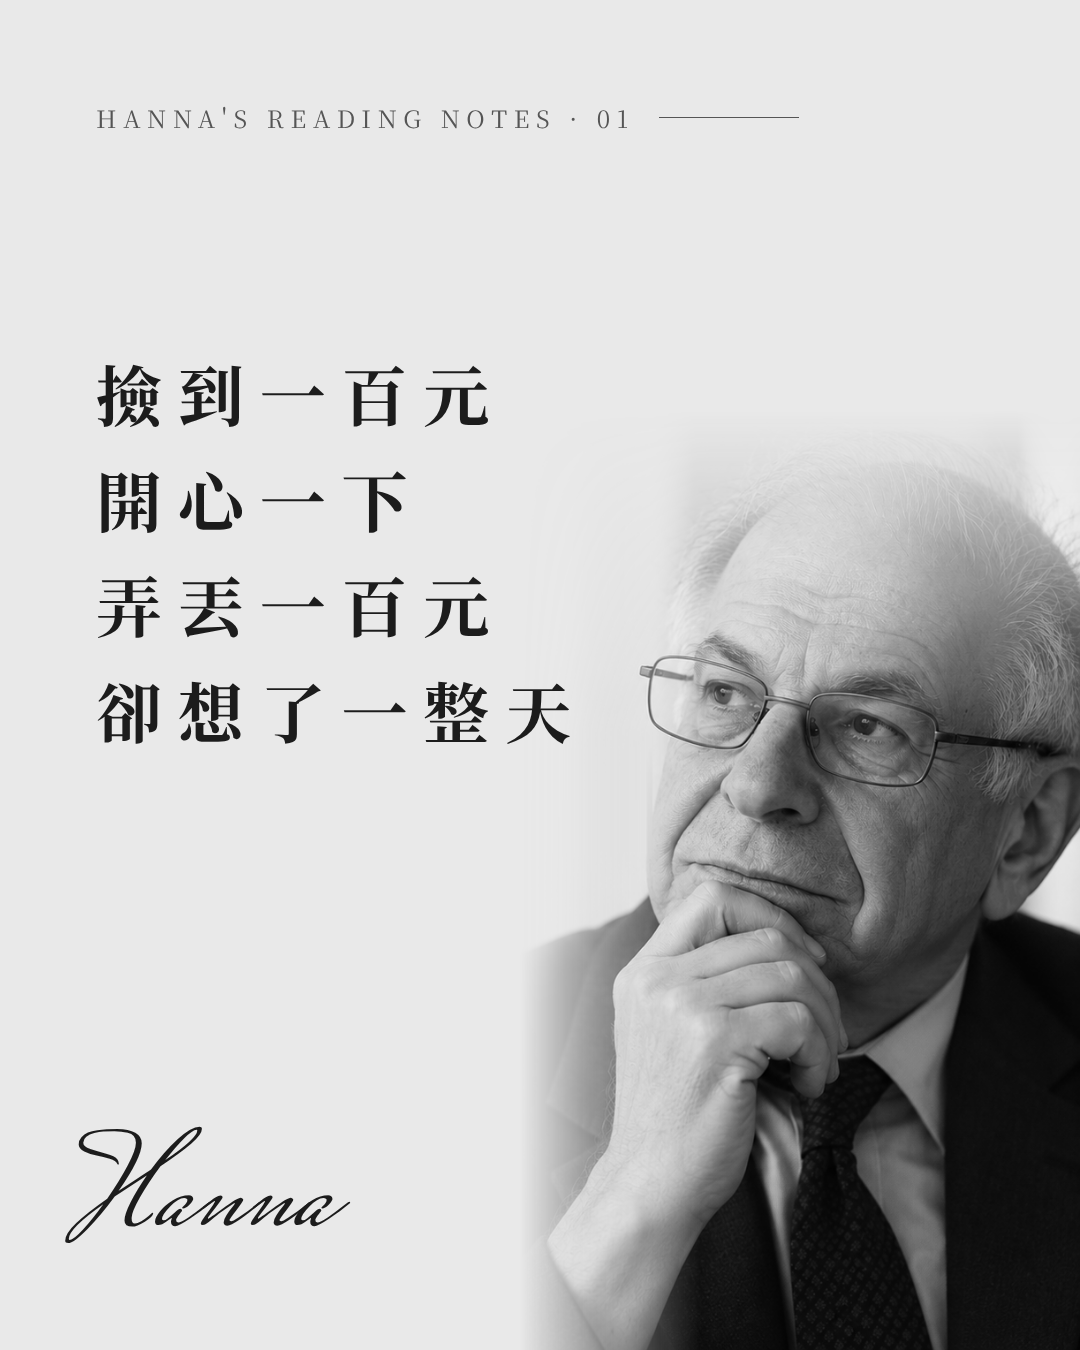
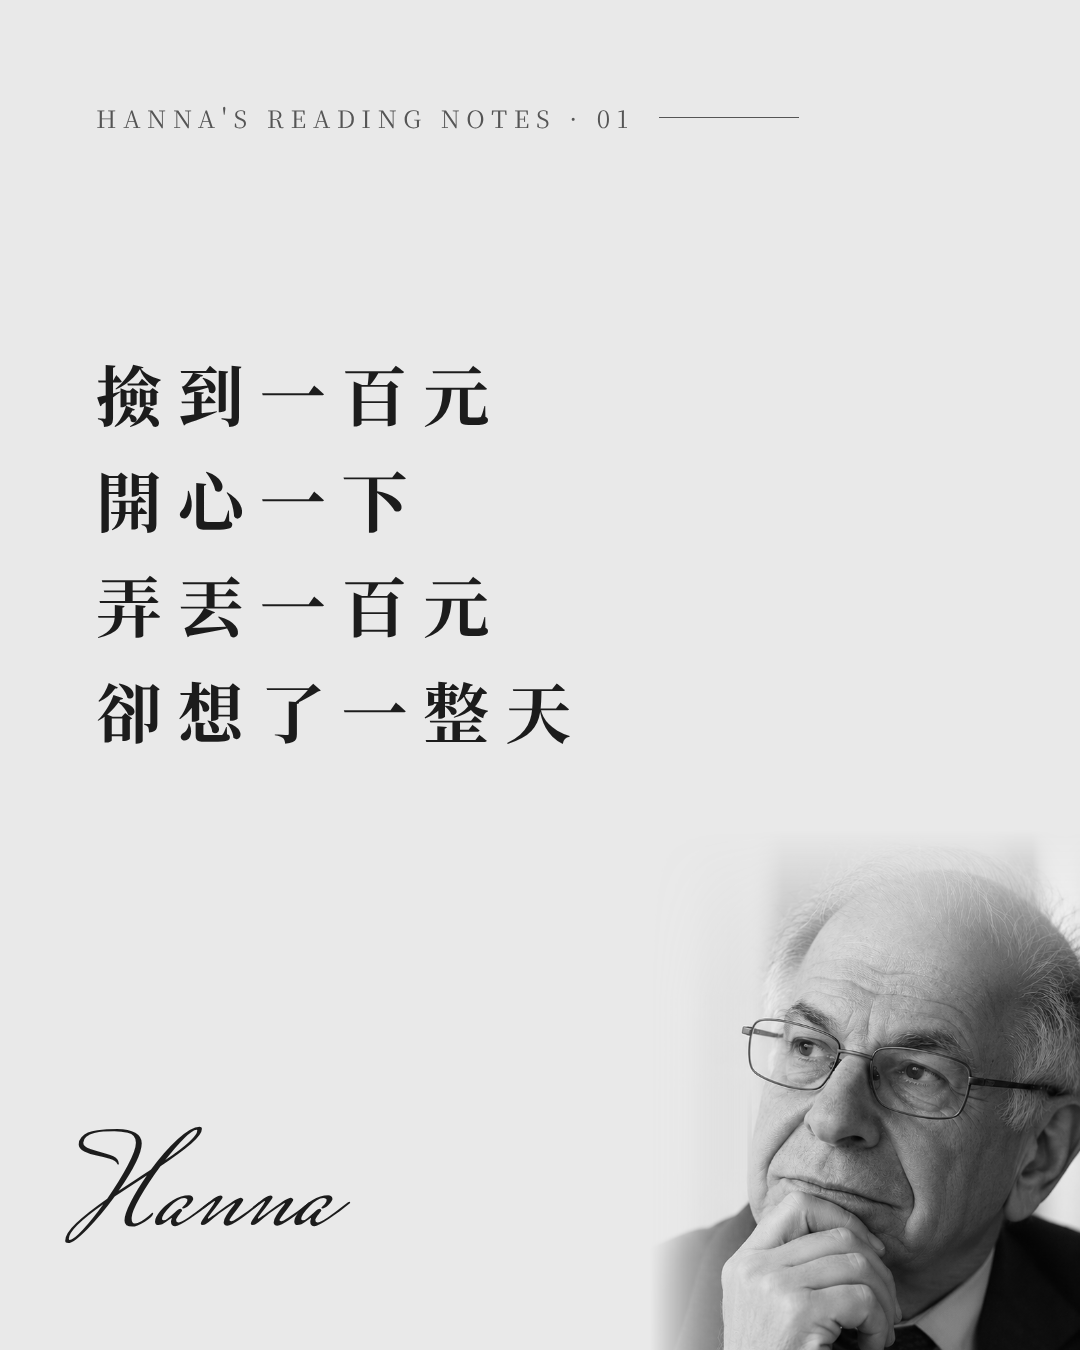
輪播貼文：封面人物照縮小，並更新版型規格
Claude-Session: https://claude.ai/code/session_01AFjNkU8XspDCm6xvkskaQj

Changed region(s): [[0.4889, 0.3422, 1.0, 1.0]]

diff --git a/IP經營/版型/輪播版型.html b/IP經營/版型/輪播版型.html
@@ -20,9 +20,9 @@
   }
   .series::after { content: ""; width: 140px; height: 1px; background: var(--soft); }
   .person {
-    position: absolute; right: 0; bottom: 0; width: 560px; height: 940px;
-    background: url(person.png) right bottom / cover no-repeat;
-    -webkit-mask-image: linear-gradient(to right, transparent 0%, #000 32%), linear-gradient(to bottom, transparent 0%, #000 34%);
+    position: absolute; right: 0; bottom: 0; width: 430px; height: 520px;
+    background: url(person.png) center top / 100% auto no-repeat;
+    -webkit-mask-image: linear-gradient(to right, transparent 0%, #000 30%), linear-gradient(to bottom, transparent 0%, #000 32%);
     -webkit-mask-composite: source-in; mask-composite: intersect;
   }
   .who { position: absolute; left: 96px; bottom: 330px; }

diff --git a/IP經營/輪播_損失厭惡/slides.html b/IP經營/輪播_損失厭惡/slides.html
@@ -20,9 +20,9 @@
   }
   .series::after { content: ""; width: 140px; height: 1px; background: var(--soft); }
   .person {
-    position: absolute; right: 0; bottom: 0; width: 560px; height: 940px;
-    background: url(person.png) right bottom / cover no-repeat;
-    -webkit-mask-image: linear-gradient(to right, transparent 0%, #000 32%), linear-gradient(to bottom, transparent 0%, #000 34%);
+    position: absolute; right: 0; bottom: 0; width: 430px; height: 520px;
+    background: url(person.png) center top / 100% auto no-repeat;
+    -webkit-mask-image: linear-gradient(to right, transparent 0%, #000 30%), linear-gradient(to bottom, transparent 0%, #000 32%);
     -webkit-mask-composite: source-in; mask-composite: intersect;
   }
   .who { position: absolute; left: 96px; bottom: 330px; }
